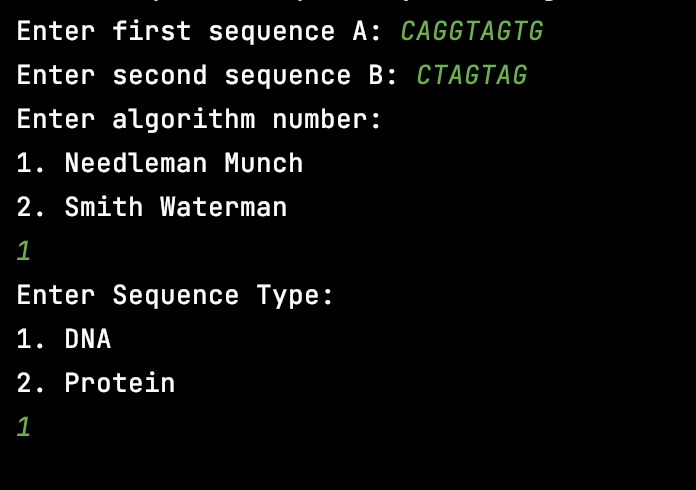
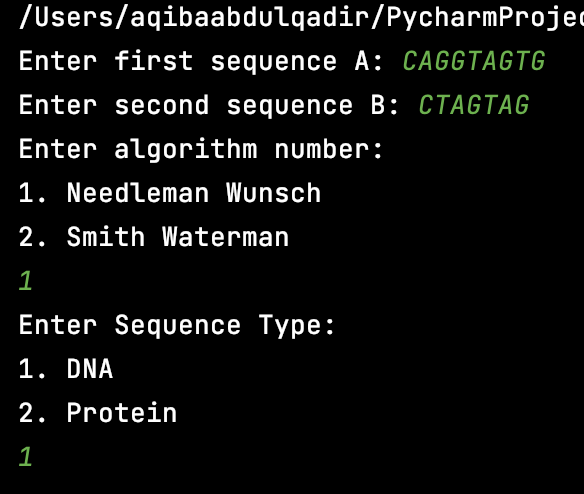
Fixed difficult spellings :(

Changed region(s): [[0.0, 0.0, 1.0, 0.949]]

diff --git a/visualise_dp.py b/visualise_dp.py
@@ -4,18 +4,18 @@ from dynamic_programming import dp_func, dna_needle_man, dna_water_man
 
 A = input("Enter first sequence A: ")
 B = input("Enter second sequence B: ")
-algo = int(input("Enter algorithm number:\n1. Needleman Munch\n2. Smith Waterman\n"))
+algo = int(input("Enter algorithm number:\n1. Needleman Wunsch\n2. Smith Waterman\n"))
 type = int(input("Enter Sequence Type:\n1. DNA\n2. Protein\n"))
 print()
 func = dna_needle_man
-title = "Needleman-Wunsch DNA Alignment Matrix"
+title = "Needleman Wunsch DNA Alignment Matrix"
 if type == 1:
     if algo == 1:
         pass
 
     elif algo == 2:
         func = dna_water_man
-        title = "Waterman-Smith DNA Alignment Matrix"
+        title = "Smith Waterman DNA Alignment Matrix"
 
 elif type == 2:
     if algo == 1:
@@ -28,8 +28,8 @@ show_mat(mat, A, B, title)
 print(maxi)
 
 
-# TEST
+# TEST CASE
 # CAGGTAGTG
 # CTAGTAG
-# 2
+# 1
 # 1

diff --git a/README.md b/README.md
@@ -4,8 +4,8 @@ This project contains Python code to visualize two classic dynamic programming a
 
 ## Features
 
-  * **Needleman-Wunsch Algorithm:** Implements a global sequence alignment algorithm. The visualization shows the scoring matrix and the optimal path(s) that align the full sequences.
-  * **Smith-Waterman Algorithm:** Implements a local sequence alignment algorithm. The visualization highlights the highest-scoring local alignment(s) within the sequences.
+  * **Needleman Wunsch Algorithm:** Implements a global sequence alignment algorithm. The visualization shows the scoring matrix and the optimal path(s) that align the full sequences.
+  * **Smith Waterman Algorithm:** Implements a local sequence alignment algorithm. The visualization highlights the highest-scoring local alignment(s) within the sequences.
   * **Dynamic Visualization:** Generates a heatmap of the scoring matrix and overlays it with arrows indicating the optimal path(s) for the alignment.
   * **Interactive Command Line Interface:** Allows the user to input two DNA sequences and choose the desired algorithm directly from the terminal.
   * **Modular Code:** The logic for the dynamic programming functions is separated from the visualization code, making it easy to understand and extend. You can also use this code to understand how it really works and tweak it as you like.
